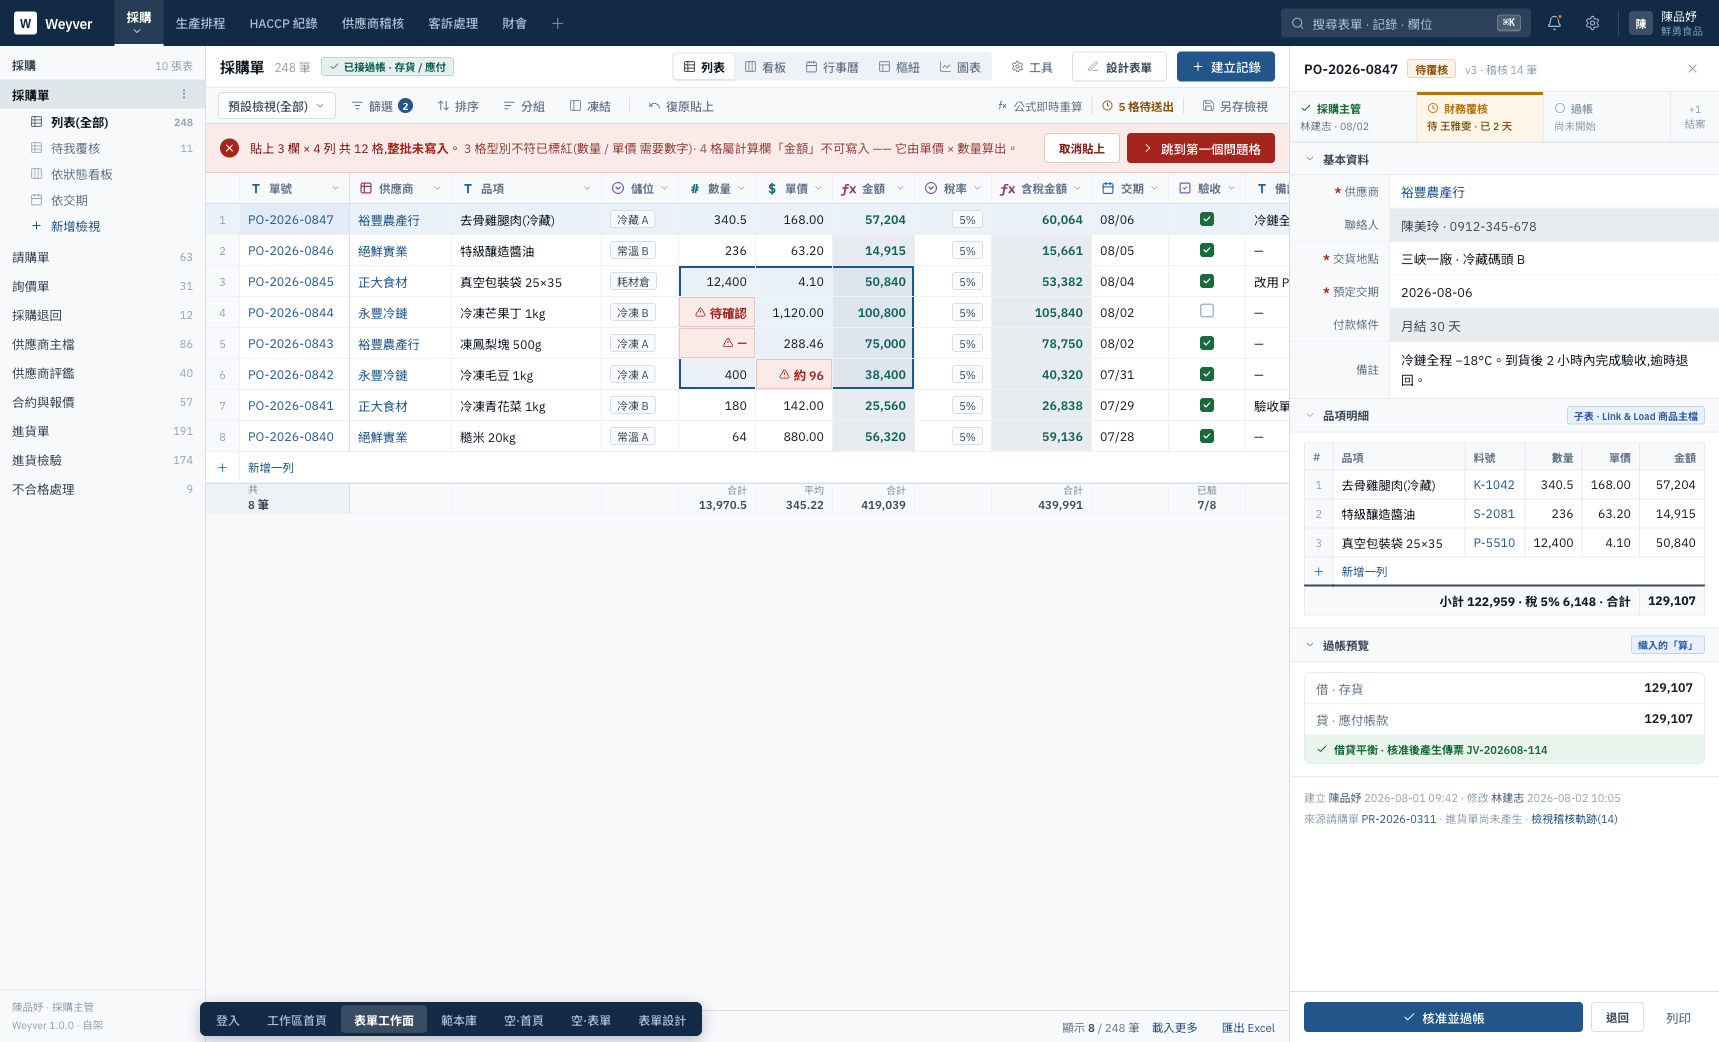
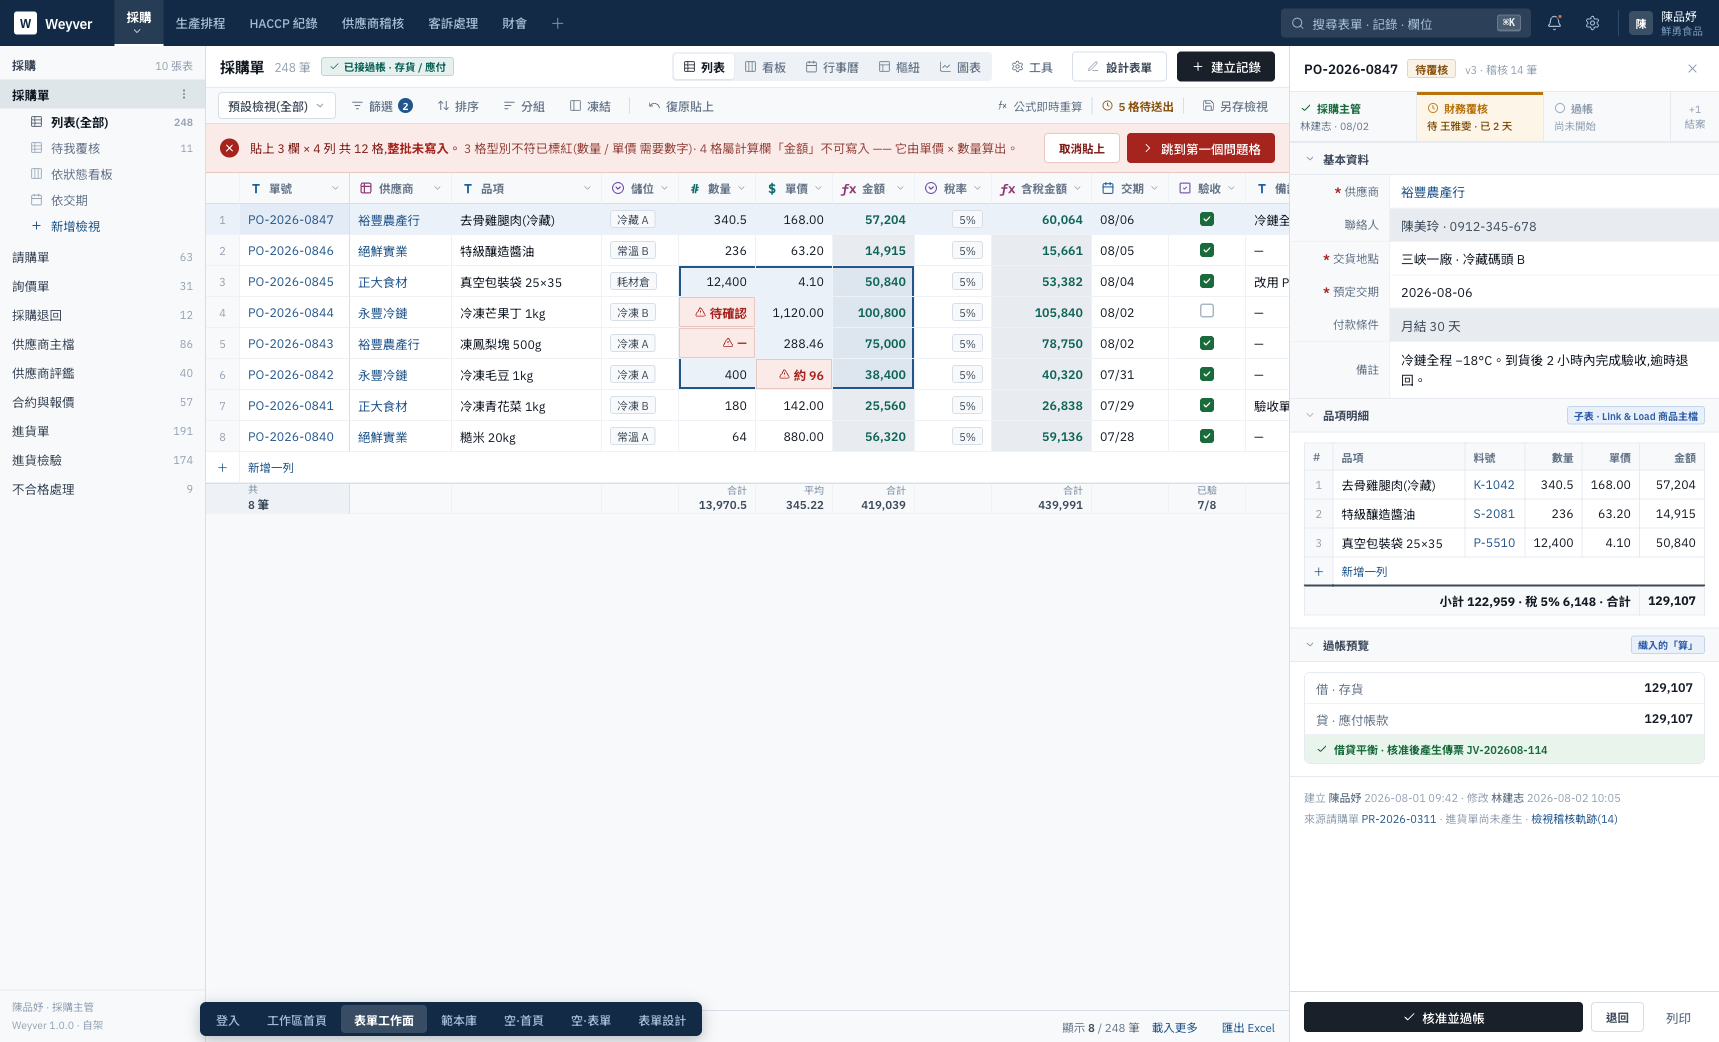
docs(design): 步驟 1|主要動作改近黑(docs/39 G1)
--action:#1a2029 / --action-h:#2c333e,.btn.pri 由 --brand 改吃 --action。
--brand 保留,職責收斂成強調色:連結 · 選取 · 焦點 · 進行中。

**值不取規則的 #18181B,取決策方自己登入頁的 oklch(24% .02 260)** ——
換算 #1a2029,略帶藍。同一個東西,但用決策方已經選過的那個,少一次無謂分歧。

🔴 **順帶查了「每頁只有一顆實心」,而規則的字面意思是錯的**:
s-form 與 s-norows 各有兩顆。但**參考的 grid.png 自己就是兩顆**
(工具列「+ 新增訂單」+ 抽屜底「核准並出貨」)——
所以實際判準是**每個區域一顆**,不是每頁一顆。

→ s-form 不動(工具列 + 記錄抽屜是兩個不同區域的不同動作)
→ s-norows 是真違反(工具列「建立記錄」與空狀態「建立第一筆」是同一個動作),
  工具列那顆降為次要 —— 空狀態擁有這個畫面的 CTA

觀察:近黑主按鈕讓 accent 藍退回它該在的位置(連結與選取),
而不是同時當「品牌色」與「主要動作」兩個角色 ——
這是六機制裡 ① 與 ② 的連動效果,單獨改一個看不出來。

⚠ 登入頁不動:那是決策方自己的設計,「登 入」高彩度藍配「註 冊」近黑外框本來就成對。

撞名檢查全綠。

Changed region(s): [[0.74, 0.952, 0.925, 1.0], [0.6783, 0.0307, 0.74, 0.0921]]

diff --git a/docs/mockups/weyver-v2.html b/docs/mockups/weyver-v2.html
@@ -79,7 +79,17 @@
   --shell-ink:#eaf0f7;
   --shell-ink-2:#a3bad3;
   --shell-ink-3:#7592b1;
-  --brand:#22568a;        /* 淺紙上的主色,對白底 7.0:1 */
+  --brand:#22568a;        /* 強調色:連結 · 選取 · 焦點 · 進行中。**不再當主按鈕填色** */
+
+  /* 🔴 G1(docs/39 步驟 1)|主要動作 = 近黑,不是品牌藍。
+     依據 `DESIGN-RULES.md`:「主要動作用近黑 #18181B,不是品牌藍(ERPNext)。
+     每個畫面只有一顆實心按鈕…比任何品牌藍都耐老,對比度保證,
+     而且『哪個是主動作』一眼可辨。」
+     **品牌藍當主按鈕是 Bootstrap / Tailwind 後台模板的胎記。**
+     值取自決策方自己的登入頁 `oklch(24% .02 260)` = #1a2029(略帶藍),
+     而不是規則的 #18181B —— 同一個東西,但用決策方已經選過的那個。 */
+  --action:#1a2029;
+  --action-h:#2c333e;
   --brand-h:#1a4471;
   --brand-t:#eaf1f8;      /* 主色極淡底,只給選取態 */
   --brand-l:#c3d5e8;
@@ -146,8 +156,8 @@ a:hover{text-decoration:underline;}
   border-radius:var(--r-ctl);font-size:12.5px;font-weight:500;border:1px solid transparent;
   transition:background .12s,border-color .12s;white-space:nowrap;}
 .btn svg{width:14px;height:14px;}
-.btn.pri{background:var(--brand);color:#fff;}
-.btn.pri:hover{background:var(--brand-h);}
+.btn.pri{background:var(--action);color:#fff;}
+.btn.pri:hover{background:var(--action-h);}
 .btn.sec{border-color:var(--line);color:var(--ink-2);background:var(--paper);}
 .btn.sec:hover{background:var(--paper-2);border-color:#bcc8d6;}
 .btn.gho{color:var(--ink-3);}
@@ -1897,7 +1907,11 @@ a:hover{text-decoration:underline;}
             <button><svg viewBox="0 0 24 24"><rect width="18" height="18" x="3" y="4" rx="2"/><path d="M3 10h18M8 2v4M16 2v4"/></svg>行事曆</button>
           </div>
           <button class="btn sec"><svg viewBox="0 0 24 24"><path d="M12 20h9"/><path d="M16.5 3.5a2.1 2.1 0 0 1 3 3L7 19l-4 1 1-4Z"/></svg>設計表單</button>
-          <button class="btn pri"><svg viewBox="0 0 24 24"><path d="M5 12h14M12 5v14"/></svg>建立記錄</button>
+          <!-- 🔴 0 筆時工具列這顆降為次要 —— 它和空狀態的「建立第一筆」是**同一個動作**。
+               同一個畫面同一個動作出現兩顆實心,「哪個是主動作」就沒有答案了。
+               ⚠ s-form 的兩顆(工具列 + 記錄抽屜)不算違反:參考的 grid.png 自己就是
+               「+ 新增訂單」配抽屜底的「核准並出貨」—— 那是兩個**不同區域的不同動作**。 -->
+          <button class="btn sec"><svg viewBox="0 0 24 24"><path d="M5 12h14M12 5v14"/></svg>建立記錄</button>
         </div>
 
         <!-- 🔴 **沒有資料時不畫空網格。**

diff --git a/docs/39-視覺落差與對齊計畫.md b/docs/39-視覺落差與對齊計畫.md
@@ -75,7 +75,7 @@
 
 | # | 項目 | 現況 | 目標 | 影響畫面 | 成本 |
 |:-:|---|---|---|:-:|:-:|
-| **G1** | 主要按鈕色 | 品牌藍 `--brand` | **近黑 `#18181B`**,每頁一顆實心 | 全部 7 | 低 |
+| ~~**G1**~~ | ~~主要按鈕色~~ | ~~品牌藍~~ | ✅ **已完成 2026-08-08** —— `--action:#1a2029` | 6 | 低 |
 | **G2** | 麵包屑 | 無 | 頂列 `分類 / 表單 / 記錄` | 3 | 低 |
 | **G3** | 記錄分頁器 | 無 | 頂列 `4 / 24` + `‹ ›`,可走訪篩選結果集 | 2 | 低 |
 | **G4** | 每列一欄粗體 | 全部 400 | 識別欄 600 + 其餘 400 | 3 | 低 |
@@ -114,13 +114,36 @@
 
 | 步 | 內容 | 為什麼排這裡 |
 |:-:|---|---|
-| **1** | **G1 主按鈕改近黑** | 一個 token,七個畫面同時變。**投報率最高的一步** |
+| ~~**1**~~ | ✅ **G1 主按鈕改近黑(2026-08-08 完成)** | 見 §4.1 |
 | **2** | **G4 每列一欄粗體** + **G7 列高 36px** | 同樣動表格,一起做;規則說這是「40px 列高下可掃描性的全部祕訣」 |
 | **3** | **G2 麵包屑** + **G3 記錄分頁器** | 兩個都在頂列,一起做。這兩個是「系統在交代自己形狀」最便宜的兩件 |
 | **4** | **G6 側欄 260px** + **G5 租戶切換器** | 側欄同時改寬與加頭 |
 | **5** | **G11 內容寬度上限** + **G9 空狀態形態** | 收尾的版面約束 |
 | **6** | **G8 字體統一** | 🔴 **最後做,而且要先裁定** —— 三方不一致(IBM Plex / Inter / Archivo),換字體會動到每個畫面的行高與對齊,在其他事都定案前換等於重做兩次 |
 | — | **G10 智慧按鈕** | 需要關聯計數 API,**排在 mockup 之後**,不在這一輪 |
+
+### 4.1 步驟 1 落地紀錄(2026-08-08)
+
+`--action:#1a2029` / `--action-h:#2c333e`,`.btn.pri` 由 `--brand` 改吃 `--action`。
+
+**值不取規則的 `#18181B`,取決策方自己登入頁的 `oklch(24% .02 260)`** —— 換算 `#1a2029`,
+略帶藍。同一個東西,但用決策方已經選過的那個,少一次無謂的分歧。
+`--brand` 保留,職責收斂成**強調色**:連結 · 選取 · 焦點 · 進行中。
+
+🔴 **順帶查了「每頁只有一顆實心」,而規則的字面意思是錯的**:
+`s-form` 與 `s-norows` 各有兩顆。但**參考的 `grid.png` 自己就是兩顆**
+(工具列「+ 新增訂單」+ 抽屜底「核准並出貨」)——
+所以實際判準是**每個區域一顆**,不是每頁一顆。
+→ `s-form` 不動(工具列 + 記錄抽屜是兩個不同區域的不同動作);
+   `s-norows` 是真違反(工具列「建立記錄」與空狀態「建立第一筆」是**同一個動作**),
+   已把工具列那顆降為次要 —— 空狀態擁有這個畫面的 CTA。
+
+**觀察**|近黑主按鈕讓 accent 藍退回它該在的位置(連結與選取),
+而不是同時當「品牌色」與「主要動作」兩個角色。這是六機制裡 ① 與 ② 連動的效果 ——
+單獨改一個看不出來。
+
+⚠ **登入頁不動** —— 那是決策方自己的設計,它的 `登 入` 是高彩度藍、`註 冊` 是近黑外框,
+本來就是成對的。改它等於覆寫決策方的作品。
 
 **每一步的驗收**|Playwright 實走 + 截圖存 `docs/research/ui-extract-2026-08-06/`,
 並跑 `docs/mockups/_check-collisions.py`。
